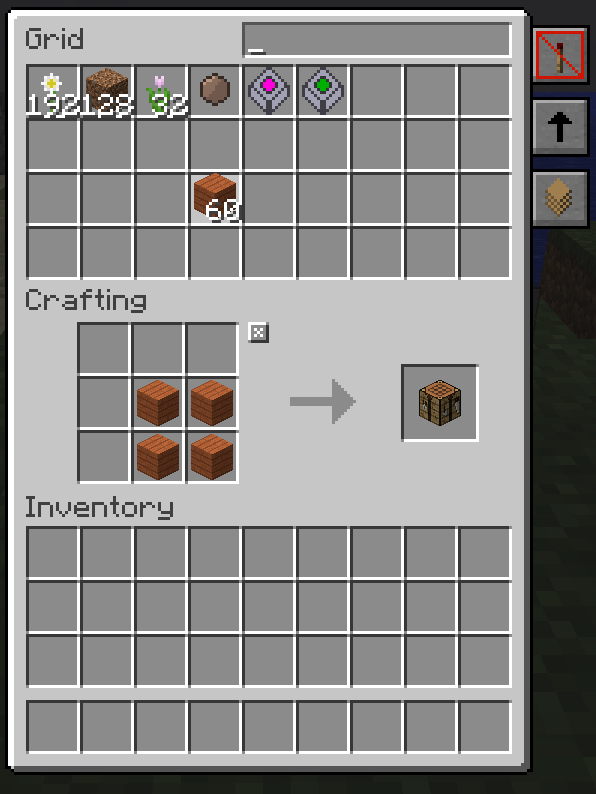
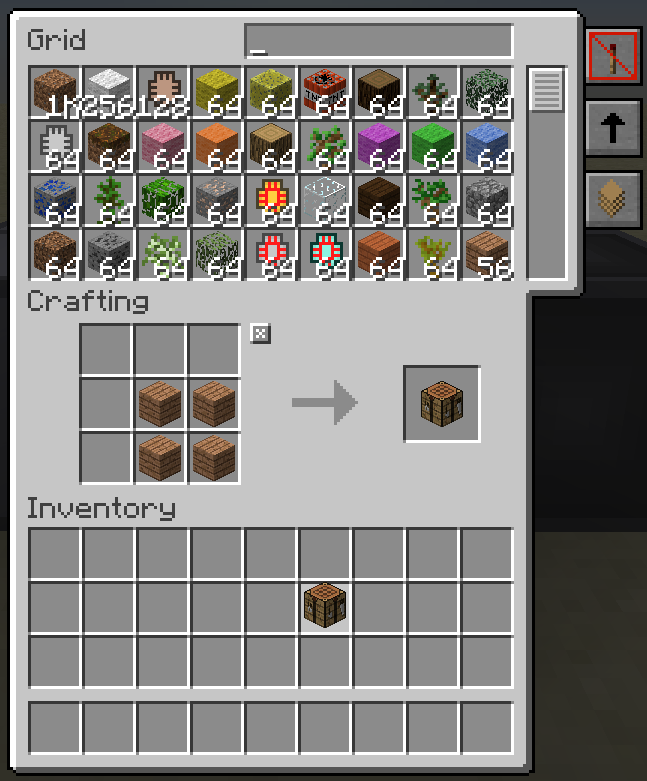
Update a screenshot.

diff --git a/src/main/java/refinedstorage/gui/GuiBase.java b/src/main/java/refinedstorage/gui/GuiBase.java
@@ -156,10 +156,15 @@ public abstract class GuiBase extends GuiContainer
 
 	public void drawItem(int x, int y, ItemStack stack)
 	{
-		drawItem(x, y, stack, false);
+		drawItem(x, y, stack, false, null);
 	}
 
 	public void drawItem(int x, int y, ItemStack stack, boolean withOverlay)
+	{
+		drawItem(x, y, stack, false, null);
+	}
+
+	public void drawItem(int x, int y, ItemStack stack, boolean withOverlay, String message)
 	{
 		zLevel = 200.0F;
 		itemRender.zLevel = 200.0F;
@@ -180,7 +185,7 @@ public abstract class GuiBase extends GuiContainer
 
 		if (withOverlay)
 		{
-			itemRender.renderItemOverlayIntoGUI(font, stack, x, y, null);
+			itemRender.renderItemOverlayIntoGUI(font, stack, x, y, message);
 		}
 
 		zLevel = 0.0F;

diff --git a/src/main/java/refinedstorage/gui/GuiGrid.java b/src/main/java/refinedstorage/gui/GuiGrid.java
@@ -232,7 +232,20 @@ public class GuiGrid extends GuiBase
 		{
 			if (slot < items.size())
 			{
-				drawItem(x, y, items.get(slot).toItemStack(), true);
+				int qty = items.get(slot).getQuantity();
+
+				String text = String.valueOf(qty);
+
+				if (qty >= 1000000)
+				{
+					text = String.valueOf((int) Math.floor(qty / 1000000)) + "M";
+				}
+				else if (qty >= 1000)
+				{
+					text = String.valueOf((int) Math.floor(qty / 1000)) + "K";
+				}
+
+				drawItem(x, y, items.get(slot).toItemStack(), true, text);
 			}
 
 			if (inBounds(x, y, 16, 16, mouseX, mouseY) || !grid.isConnected())
